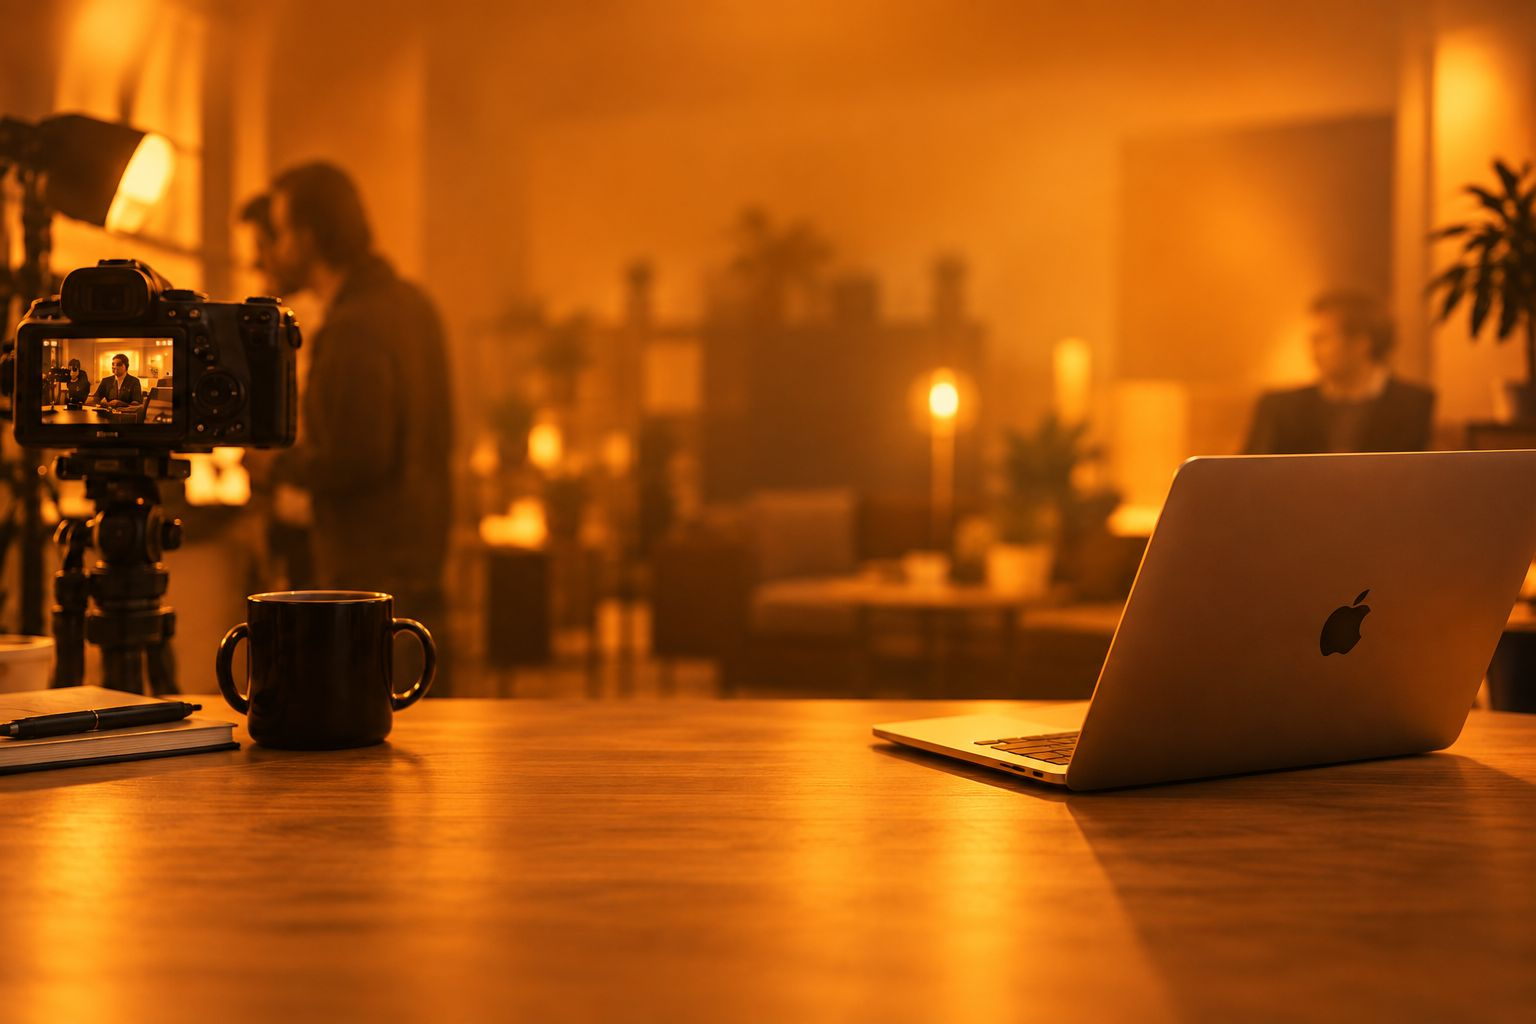
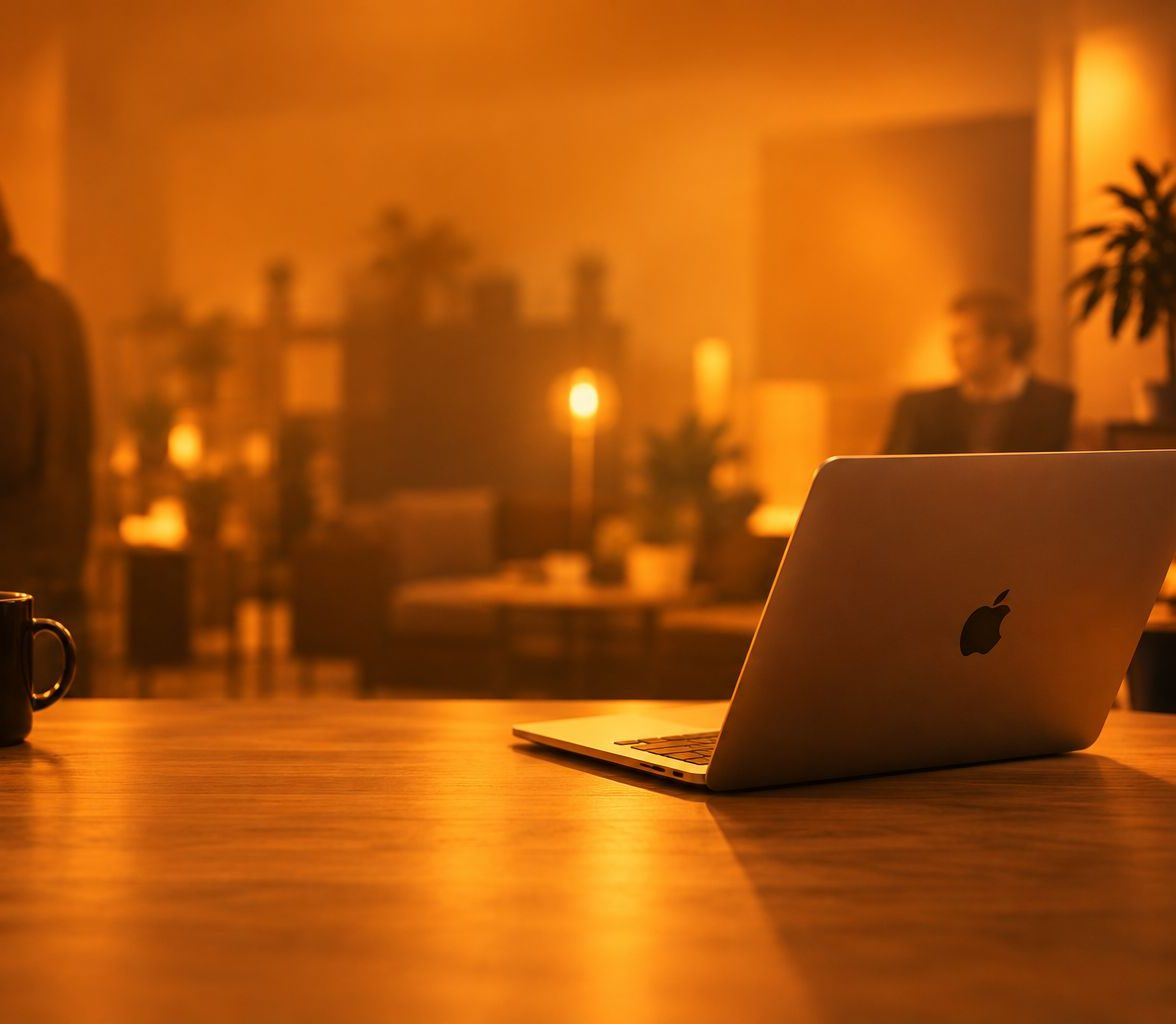
Preise: Kamera aus dem Hintergrundfoto geschnitten
Dusan: "verschieben". Kamera, Display und der Kopf davor lagen im linken
Fuenftel des Fotos (bis x=340 von 1536); das Gesicht auf dem Display war
nur 35x40 Pixel gross, zu wenig fuer Augen, Nase und Mund.

Rechtsbuendiges cover allein half nur bis 1440: ab rund 1500 px ist die
Sektion breiter als 1,5:1, cover zeigt dann fast die volle Bildbreite und
der linke Rand kam zurueck. Hineinzoomen schied aus, weil 1536x1024
bereits die hoechste vorhandene Aufloesung ist (die PNG-Vorlage stimmt bis
auf 0,2 Graustufen ueberein) und ein ueber cover hinaus vergroessertes
Bild auf sehr breiten Schirmen die Flaeche nicht mehr deckt.

Darum 360 Pixel aus der Datei geschnitten: 1176x1024, JPEG 106 auf 70 KB.
Varianten neu gerechnet (480, 626, 1176 statt 480, 626, 1200, 1536) und in
bild-varianten.json eingetragen, Rundlauf beider JSON-Dateien vorher
zeichengenau geprueft.

Gemessen bei 1920, 1680, 1440, 1280, 1101 und 390: frueheste sichtbare
Stelle ist alt-x 360, Flaeche ueberall gedeckt, keine Luecke. Bei 1440
ergibt sich rechnerisch exakt derselbe Ausschnitt wie vor dem Schnitt.

diff --git a/stil.css b/stil.css
@@ -927,7 +927,19 @@ a:hover .rolle > span,button:hover .rolle > span{transform:translateY(-100%)}
       rgb(245 165 36 / .48) 42%,
       rgb(245 165 36 / .58) 62%,
       rgb(138 85 4 / .46) 100%),
-    url("bilder/preis-grund.jpg") center/cover no-repeat,
+    /* 19.09.2026, Dusan: verschieben. Kamera, Display und der Kopf davor
+       lagen im linken Fuenftel (bis x=340 von 1536); das Gesicht auf dem
+       Display war nur 35x40 Pixel gross — zu wenig fuer Augen, Nase, Mund.
+       Rechtsbuendig allein half nur bis 1440: ab ~1500 ist die Sektion
+       breiter als 1,5:1, cover zeigt dann fast die volle Bildbreite und der
+       linke Rand kommt zurueck. Zoomen scheidet aus — 1536x1024 ist bereits
+       die hoechste vorhandene Aufloesung (die PNG-Vorlage ist identisch),
+       und ein ueber cover hinaus vergroessertes Bild kann bei sehr breiten
+       Schirmen die Flaeche nicht mehr decken. Darum sind die 360 Pixel AUS
+       DER DATEI geschnitten: 1176x1024. Kamera bei jeder Breite weg.
+       Rechtsbuendig bleibt, weil der Ausschnitt bei 1440 damit rechnerisch
+       exakt derselbe ist wie vor dem Schnitt. */
+    url("bilder/preis-grund.jpg") right center/cover no-repeat,
     var(--violett);
   color:var(--creme);border-radius:0;
   padding:clamp(20px,1.8vw,32px) clamp(26px,4vw,72px)
